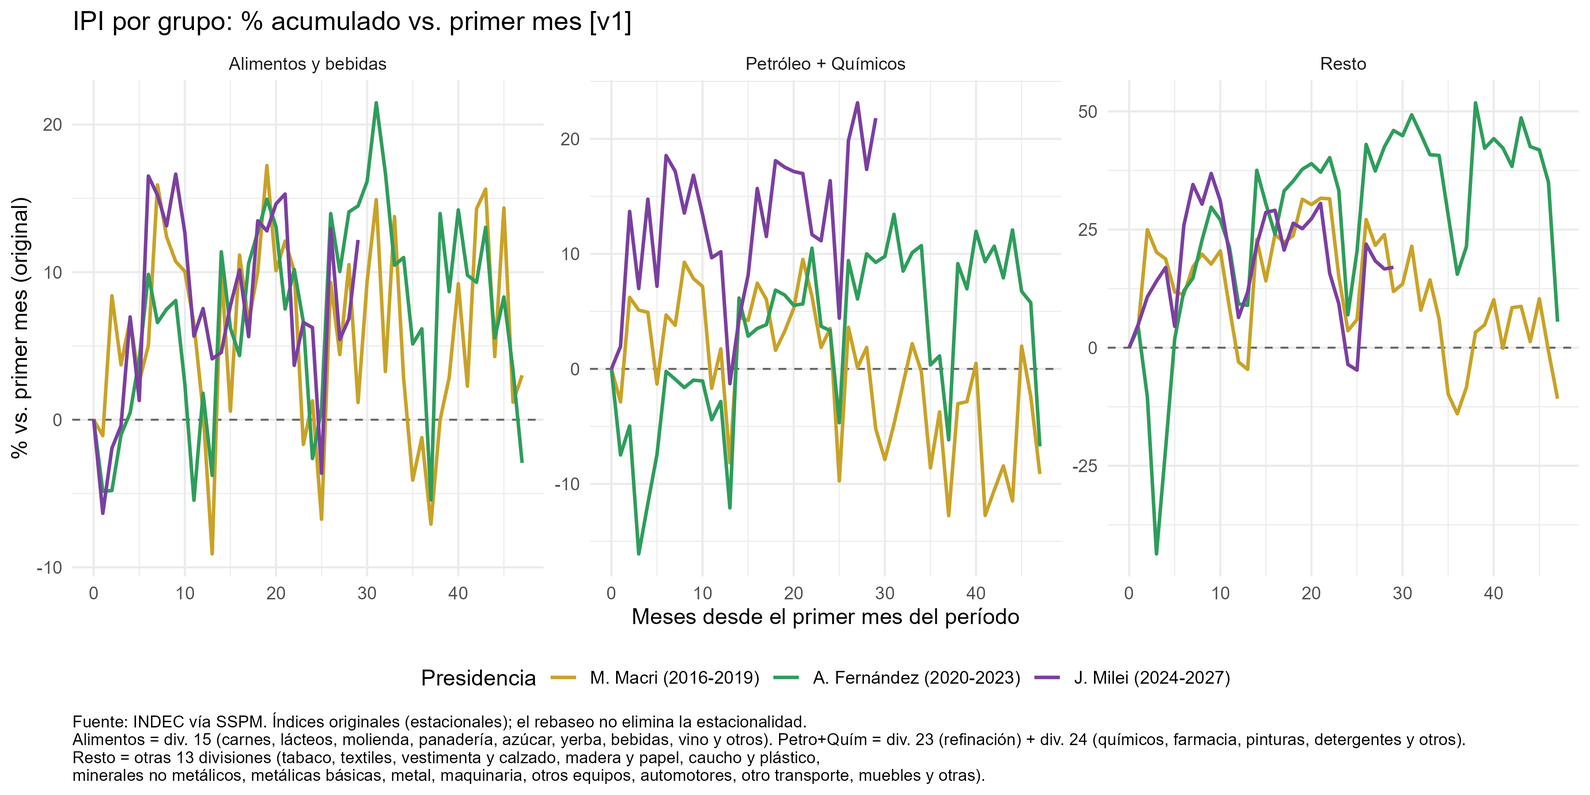
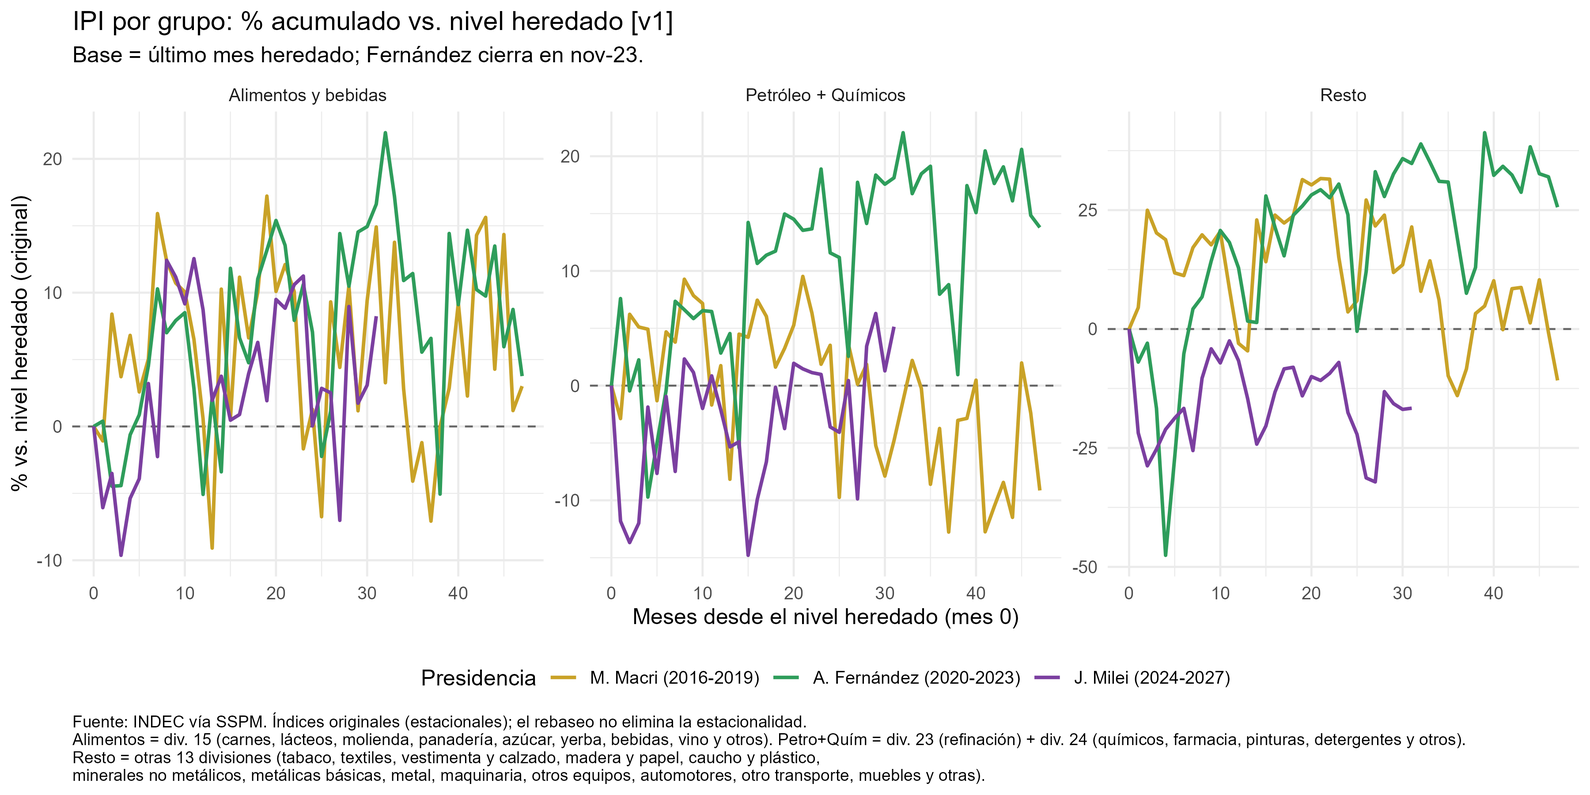
actualizo

diff --git a/tabla_promedio_grupos_sa.md b/tabla_promedio_grupos_sa.md
@@ -1,0 +1,36 @@
+# IPI manufacturero — tablas
+
+### Nivel promedio por gobierno y grupo, desestacionalizado (V1)
+
+<table style="border-collapse:collapse;font-family:Georgia,'Times New Roman',serif;font-size:14px;margin:1em 0;border:1px solid #c9c2b2;">
+<thead><tr style="background-color:#2f3e55;color:#ffffff;"><th style="padding:8px 12px;text-align:left;">Gobierno</th><th style="padding:8px 12px;text-align:left;">Grupo</th><th style="padding:8px 12px;text-align:left;">Meses</th><th style="padding:8px 12px;text-align:left;">Período</th><th style="padding:8px 12px;text-align:left;">Promedio</th></tr></thead>
+<tbody>
+<tr style="background-color:#ffffff;"><td style="padding:7px 12px;text-align:left;">M. Macri</td><td style="padding:7px 12px;text-align:left;">Alimentos y bebidas</td><td style="padding:7px 12px;text-align:left;">48</td><td style="padding:7px 12px;text-align:left;">ene-16 a dic-19</td><td style="padding:7px 12px;text-align:right;">138,3</td></tr>
+<tr style="background-color:#f5f1e8;"><td style="padding:7px 12px;text-align:left;">A. Fernández</td><td style="padding:7px 12px;text-align:left;">Alimentos y bebidas</td><td style="padding:7px 12px;text-align:left;">48</td><td style="padding:7px 12px;text-align:left;">ene-20 a dic-23</td><td style="padding:7px 12px;text-align:right;">144,6</td></tr>
+<tr style="background-color:#ffffff;"><td style="padding:7px 12px;text-align:left;">J. Milei</td><td style="padding:7px 12px;text-align:left;">Alimentos y bebidas</td><td style="padding:7px 12px;text-align:left;">30</td><td style="padding:7px 12px;text-align:left;">ene-24 a jun-26</td><td style="padding:7px 12px;text-align:right;">145,6</td></tr>
+<tr style="background-color:#f5f1e8;"><td style="padding:7px 12px;text-align:left;">M. Macri</td><td style="padding:7px 12px;text-align:left;">Petróleo + Químicos</td><td style="padding:7px 12px;text-align:left;">48</td><td style="padding:7px 12px;text-align:left;">ene-16 a dic-19</td><td style="padding:7px 12px;text-align:right;">131,5</td></tr>
+<tr style="background-color:#ffffff;"><td style="padding:7px 12px;text-align:left;">A. Fernández</td><td style="padding:7px 12px;text-align:left;">Petróleo + Químicos</td><td style="padding:7px 12px;text-align:left;">48</td><td style="padding:7px 12px;text-align:left;">ene-20 a dic-23</td><td style="padding:7px 12px;text-align:right;">132,7</td></tr>
+<tr style="background-color:#f5f1e8;"><td style="padding:7px 12px;text-align:left;">J. Milei</td><td style="padding:7px 12px;text-align:left;">Petróleo + Químicos</td><td style="padding:7px 12px;text-align:left;">30</td><td style="padding:7px 12px;text-align:left;">ene-24 a jun-26</td><td style="padding:7px 12px;text-align:right;">133,0</td></tr>
+<tr style="background-color:#ffffff;"><td style="padding:7px 12px;text-align:left;">M. Macri</td><td style="padding:7px 12px;text-align:left;">Resto</td><td style="padding:7px 12px;text-align:left;">48</td><td style="padding:7px 12px;text-align:left;">ene-16 a dic-19</td><td style="padding:7px 12px;text-align:right;">119,9</td></tr>
+<tr style="background-color:#f5f1e8;"><td style="padding:7px 12px;text-align:left;">A. Fernández</td><td style="padding:7px 12px;text-align:left;">Resto</td><td style="padding:7px 12px;text-align:left;">48</td><td style="padding:7px 12px;text-align:left;">ene-20 a dic-23</td><td style="padding:7px 12px;text-align:right;">113,0</td></tr>
+<tr style="background-color:#ffffff;"><td style="padding:7px 12px;text-align:left;">J. Milei</td><td style="padding:7px 12px;text-align:left;">Resto</td><td style="padding:7px 12px;text-align:left;">30</td><td style="padding:7px 12px;text-align:left;">ene-24 a jun-26</td><td style="padding:7px 12px;text-align:right;">101,9</td></tr>
+</tbody>
+</table>
+*Fuente: INDEC 453.1+453.2 vía SSPM. Desest. indirecto X-13 por división (spec INDEC 2025). Base 2004=100.*
+### Nivel promedio por gobierno y grupo, desestacionalizado (V2)
+
+<table style="border-collapse:collapse;font-family:Georgia,'Times New Roman',serif;font-size:14px;margin:1em 0;border:1px solid #c9c2b2;">
+<thead><tr style="background-color:#2f3e55;color:#ffffff;"><th style="padding:8px 12px;text-align:left;">Gobierno</th><th style="padding:8px 12px;text-align:left;">Grupo</th><th style="padding:8px 12px;text-align:left;">Meses</th><th style="padding:8px 12px;text-align:left;">Período</th><th style="padding:8px 12px;text-align:left;">Promedio</th></tr></thead>
+<tbody>
+<tr style="background-color:#ffffff;"><td style="padding:7px 12px;text-align:left;">M. Macri</td><td style="padding:7px 12px;text-align:left;">Alimentos y bebidas</td><td style="padding:7px 12px;text-align:left;">47</td><td style="padding:7px 12px;text-align:left;">ene-16 a nov-19</td><td style="padding:7px 12px;text-align:right;">138,3</td></tr>
+<tr style="background-color:#f5f1e8;"><td style="padding:7px 12px;text-align:left;">A. Fernández</td><td style="padding:7px 12px;text-align:left;">Alimentos y bebidas</td><td style="padding:7px 12px;text-align:left;">48</td><td style="padding:7px 12px;text-align:left;">dic-19 a nov-23</td><td style="padding:7px 12px;text-align:right;">144,6</td></tr>
+<tr style="background-color:#ffffff;"><td style="padding:7px 12px;text-align:left;">J. Milei</td><td style="padding:7px 12px;text-align:left;">Alimentos y bebidas</td><td style="padding:7px 12px;text-align:left;">31</td><td style="padding:7px 12px;text-align:left;">dic-23 a jun-26</td><td style="padding:7px 12px;text-align:right;">145,4</td></tr>
+<tr style="background-color:#f5f1e8;"><td style="padding:7px 12px;text-align:left;">M. Macri</td><td style="padding:7px 12px;text-align:left;">Petróleo + Químicos</td><td style="padding:7px 12px;text-align:left;">47</td><td style="padding:7px 12px;text-align:left;">ene-16 a nov-19</td><td style="padding:7px 12px;text-align:right;">131,7</td></tr>
+<tr style="background-color:#ffffff;"><td style="padding:7px 12px;text-align:left;">A. Fernández</td><td style="padding:7px 12px;text-align:left;">Petróleo + Químicos</td><td style="padding:7px 12px;text-align:left;">48</td><td style="padding:7px 12px;text-align:left;">dic-19 a nov-23</td><td style="padding:7px 12px;text-align:right;">132,7</td></tr>
+<tr style="background-color:#f5f1e8;"><td style="padding:7px 12px;text-align:left;">J. Milei</td><td style="padding:7px 12px;text-align:left;">Petróleo + Químicos</td><td style="padding:7px 12px;text-align:left;">31</td><td style="padding:7px 12px;text-align:left;">dic-23 a jun-26</td><td style="padding:7px 12px;text-align:right;">132,8</td></tr>
+<tr style="background-color:#ffffff;"><td style="padding:7px 12px;text-align:left;">M. Macri</td><td style="padding:7px 12px;text-align:left;">Resto</td><td style="padding:7px 12px;text-align:left;">47</td><td style="padding:7px 12px;text-align:left;">ene-16 a nov-19</td><td style="padding:7px 12px;text-align:right;">120,3</td></tr>
+<tr style="background-color:#f5f1e8;"><td style="padding:7px 12px;text-align:left;">A. Fernández</td><td style="padding:7px 12px;text-align:left;">Resto</td><td style="padding:7px 12px;text-align:left;">48</td><td style="padding:7px 12px;text-align:left;">dic-19 a nov-23</td><td style="padding:7px 12px;text-align:right;">113,0</td></tr>
+<tr style="background-color:#ffffff;"><td style="padding:7px 12px;text-align:left;">J. Milei</td><td style="padding:7px 12px;text-align:left;">Resto</td><td style="padding:7px 12px;text-align:left;">31</td><td style="padding:7px 12px;text-align:left;">dic-23 a jun-26</td><td style="padding:7px 12px;text-align:right;">101,9</td></tr>
+</tbody>
+</table>
+*Fuente: INDEC 453.1+453.2 vía SSPM. Desest. indirecto X-13 por división (spec INDEC 2025). Base 2004=100.*

diff --git a/tabla_promedio_grupos.md b/tabla_promedio_grupos.md
@@ -1,0 +1,36 @@
+# IPI manufacturero — tablas
+
+### Nivel promedio por gobierno y grupo, serie original (V1)
+
+<table style="border-collapse:collapse;font-family:Georgia,'Times New Roman',serif;font-size:14px;margin:1em 0;border:1px solid #c9c2b2;">
+<thead><tr style="background-color:#2f3e55;color:#ffffff;"><th style="padding:8px 12px;text-align:left;">Gobierno</th><th style="padding:8px 12px;text-align:left;">Grupo</th><th style="padding:8px 12px;text-align:left;">Meses</th><th style="padding:8px 12px;text-align:left;">Período</th><th style="padding:8px 12px;text-align:left;">Promedio</th></tr></thead>
+<tbody>
+<tr style="background-color:#ffffff;"><td style="padding:7px 12px;text-align:left;">M. Macri</td><td style="padding:7px 12px;text-align:left;">Alimentos y bebidas</td><td style="padding:7px 12px;text-align:left;">48</td><td style="padding:7px 12px;text-align:left;">ene-16 a dic-19</td><td style="padding:7px 12px;text-align:right;">138,2</td></tr>
+<tr style="background-color:#f5f1e8;"><td style="padding:7px 12px;text-align:left;">A. Fernández</td><td style="padding:7px 12px;text-align:left;">Alimentos y bebidas</td><td style="padding:7px 12px;text-align:left;">48</td><td style="padding:7px 12px;text-align:left;">ene-20 a dic-23</td><td style="padding:7px 12px;text-align:right;">144,6</td></tr>
+<tr style="background-color:#ffffff;"><td style="padding:7px 12px;text-align:left;">J. Milei</td><td style="padding:7px 12px;text-align:left;">Alimentos y bebidas</td><td style="padding:7px 12px;text-align:left;">30</td><td style="padding:7px 12px;text-align:left;">ene-24 a jun-26</td><td style="padding:7px 12px;text-align:right;">144,9</td></tr>
+<tr style="background-color:#f5f1e8;"><td style="padding:7px 12px;text-align:left;">M. Macri</td><td style="padding:7px 12px;text-align:left;">Petróleo + Químicos</td><td style="padding:7px 12px;text-align:left;">48</td><td style="padding:7px 12px;text-align:left;">ene-16 a dic-19</td><td style="padding:7px 12px;text-align:right;">131,6</td></tr>
+<tr style="background-color:#ffffff;"><td style="padding:7px 12px;text-align:left;">A. Fernández</td><td style="padding:7px 12px;text-align:left;">Petróleo + Químicos</td><td style="padding:7px 12px;text-align:left;">48</td><td style="padding:7px 12px;text-align:left;">ene-20 a dic-23</td><td style="padding:7px 12px;text-align:right;">132,7</td></tr>
+<tr style="background-color:#f5f1e8;"><td style="padding:7px 12px;text-align:left;">J. Milei</td><td style="padding:7px 12px;text-align:left;">Petróleo + Químicos</td><td style="padding:7px 12px;text-align:left;">30</td><td style="padding:7px 12px;text-align:left;">ene-24 a jun-26</td><td style="padding:7px 12px;text-align:right;">132,6</td></tr>
+<tr style="background-color:#ffffff;"><td style="padding:7px 12px;text-align:left;">M. Macri</td><td style="padding:7px 12px;text-align:left;">Resto</td><td style="padding:7px 12px;text-align:left;">48</td><td style="padding:7px 12px;text-align:left;">ene-16 a dic-19</td><td style="padding:7px 12px;text-align:right;">119,9</td></tr>
+<tr style="background-color:#f5f1e8;"><td style="padding:7px 12px;text-align:left;">A. Fernández</td><td style="padding:7px 12px;text-align:left;">Resto</td><td style="padding:7px 12px;text-align:left;">48</td><td style="padding:7px 12px;text-align:left;">ene-20 a dic-23</td><td style="padding:7px 12px;text-align:right;">112,9</td></tr>
+<tr style="background-color:#ffffff;"><td style="padding:7px 12px;text-align:left;">J. Milei</td><td style="padding:7px 12px;text-align:left;">Resto</td><td style="padding:7px 12px;text-align:left;">30</td><td style="padding:7px 12px;text-align:left;">ene-24 a jun-26</td><td style="padding:7px 12px;text-align:right;">101,1</td></tr>
+</tbody>
+</table>
+*Fuente: INDEC 453.1+453.2 vía SSPM. Serie original, base 2004=100.*
+### Nivel promedio por gobierno y grupo, serie original (V2)
+
+<table style="border-collapse:collapse;font-family:Georgia,'Times New Roman',serif;font-size:14px;margin:1em 0;border:1px solid #c9c2b2;">
+<thead><tr style="background-color:#2f3e55;color:#ffffff;"><th style="padding:8px 12px;text-align:left;">Gobierno</th><th style="padding:8px 12px;text-align:left;">Grupo</th><th style="padding:8px 12px;text-align:left;">Meses</th><th style="padding:8px 12px;text-align:left;">Período</th><th style="padding:8px 12px;text-align:left;">Promedio</th></tr></thead>
+<tbody>
+<tr style="background-color:#ffffff;"><td style="padding:7px 12px;text-align:left;">M. Macri</td><td style="padding:7px 12px;text-align:left;">Alimentos y bebidas</td><td style="padding:7px 12px;text-align:left;">47</td><td style="padding:7px 12px;text-align:left;">ene-16 a nov-19</td><td style="padding:7px 12px;text-align:right;">138,3</td></tr>
+<tr style="background-color:#f5f1e8;"><td style="padding:7px 12px;text-align:left;">A. Fernández</td><td style="padding:7px 12px;text-align:left;">Alimentos y bebidas</td><td style="padding:7px 12px;text-align:left;">48</td><td style="padding:7px 12px;text-align:left;">dic-19 a nov-23</td><td style="padding:7px 12px;text-align:right;">144,6</td></tr>
+<tr style="background-color:#ffffff;"><td style="padding:7px 12px;text-align:left;">J. Milei</td><td style="padding:7px 12px;text-align:left;">Alimentos y bebidas</td><td style="padding:7px 12px;text-align:left;">31</td><td style="padding:7px 12px;text-align:left;">dic-23 a jun-26</td><td style="padding:7px 12px;text-align:right;">144,5</td></tr>
+<tr style="background-color:#f5f1e8;"><td style="padding:7px 12px;text-align:left;">M. Macri</td><td style="padding:7px 12px;text-align:left;">Petróleo + Químicos</td><td style="padding:7px 12px;text-align:left;">47</td><td style="padding:7px 12px;text-align:left;">ene-16 a nov-19</td><td style="padding:7px 12px;text-align:right;">131,8</td></tr>
+<tr style="background-color:#ffffff;"><td style="padding:7px 12px;text-align:left;">A. Fernández</td><td style="padding:7px 12px;text-align:left;">Petróleo + Químicos</td><td style="padding:7px 12px;text-align:left;">48</td><td style="padding:7px 12px;text-align:left;">dic-19 a nov-23</td><td style="padding:7px 12px;text-align:right;">132,7</td></tr>
+<tr style="background-color:#f5f1e8;"><td style="padding:7px 12px;text-align:left;">J. Milei</td><td style="padding:7px 12px;text-align:left;">Petróleo + Químicos</td><td style="padding:7px 12px;text-align:left;">31</td><td style="padding:7px 12px;text-align:left;">dic-23 a jun-26</td><td style="padding:7px 12px;text-align:right;">132,2</td></tr>
+<tr style="background-color:#ffffff;"><td style="padding:7px 12px;text-align:left;">M. Macri</td><td style="padding:7px 12px;text-align:left;">Resto</td><td style="padding:7px 12px;text-align:left;">47</td><td style="padding:7px 12px;text-align:left;">ene-16 a nov-19</td><td style="padding:7px 12px;text-align:right;">120,4</td></tr>
+<tr style="background-color:#f5f1e8;"><td style="padding:7px 12px;text-align:left;">A. Fernández</td><td style="padding:7px 12px;text-align:left;">Resto</td><td style="padding:7px 12px;text-align:left;">48</td><td style="padding:7px 12px;text-align:left;">dic-19 a nov-23</td><td style="padding:7px 12px;text-align:right;">113,0</td></tr>
+<tr style="background-color:#ffffff;"><td style="padding:7px 12px;text-align:left;">J. Milei</td><td style="padding:7px 12px;text-align:left;">Resto</td><td style="padding:7px 12px;text-align:left;">31</td><td style="padding:7px 12px;text-align:left;">dic-23 a jun-26</td><td style="padding:7px 12px;text-align:right;">100,9</td></tr>
+</tbody>
+</table>
+*Fuente: INDEC 453.1+453.2 vía SSPM. Serie original, base 2004=100.*

diff --git a/tabla_punta_a_punta.md b/tabla_punta_a_punta.md
@@ -1,0 +1,36 @@
+# IPI manufacturero — tablas
+
+### Diferencia punta a punta por gobierno y grupo (V1, % vs. nivel heredado)
+
+<table style="border-collapse:collapse;font-family:Georgia,'Times New Roman',serif;font-size:14px;margin:1em 0;border:1px solid #c9c2b2;">
+<thead><tr style="background-color:#2f3e55;color:#ffffff;"><th style="padding:8px 12px;text-align:left;">Gobierno</th><th style="padding:8px 12px;text-align:left;">Grupo</th><th style="padding:8px 12px;text-align:left;">Rango</th><th style="padding:8px 12px;text-align:left;">Variación</th></tr></thead>
+<tbody>
+<tr style="background-color:#ffffff;"><td style="padding:7px 12px;text-align:left;">M. Macri</td><td style="padding:7px 12px;text-align:left;">Alimentos y bebidas</td><td style="padding:7px 12px;text-align:left;">ene-16 → dic-19</td><td style="padding:7px 12px;text-align:right;"> -1,8</td></tr>
+<tr style="background-color:#f5f1e8;"><td style="padding:7px 12px;text-align:left;">M. Macri</td><td style="padding:7px 12px;text-align:left;">Petróleo + Químicos</td><td style="padding:7px 12px;text-align:left;">ene-16 → dic-19</td><td style="padding:7px 12px;text-align:right;"> -5,5</td></tr>
+<tr style="background-color:#ffffff;"><td style="padding:7px 12px;text-align:left;">M. Macri</td><td style="padding:7px 12px;text-align:left;">Resto</td><td style="padding:7px 12px;text-align:left;">ene-16 → dic-19</td><td style="padding:7px 12px;text-align:right;">-20,3</td></tr>
+<tr style="background-color:#f5f1e8;"><td style="padding:7px 12px;text-align:left;">A. Fernández</td><td style="padding:7px 12px;text-align:left;">Alimentos y bebidas</td><td style="padding:7px 12px;text-align:left;">dic-19 → nov-23</td><td style="padding:7px 12px;text-align:right;"> -1,2</td></tr>
+<tr style="background-color:#ffffff;"><td style="padding:7px 12px;text-align:left;">A. Fernández</td><td style="padding:7px 12px;text-align:left;">Petróleo + Químicos</td><td style="padding:7px 12px;text-align:left;">dic-19 → nov-23</td><td style="padding:7px 12px;text-align:right;">  5,9</td></tr>
+<tr style="background-color:#f5f1e8;"><td style="padding:7px 12px;text-align:left;">A. Fernández</td><td style="padding:7px 12px;text-align:left;">Resto</td><td style="padding:7px 12px;text-align:left;">dic-19 → nov-23</td><td style="padding:7px 12px;text-align:right;"> 10,3</td></tr>
+<tr style="background-color:#ffffff;"><td style="padding:7px 12px;text-align:left;">J. Milei</td><td style="padding:7px 12px;text-align:left;">Alimentos y bebidas</td><td style="padding:7px 12px;text-align:left;">nov-23 → jun-26</td><td style="padding:7px 12px;text-align:right;">  7,4</td></tr>
+<tr style="background-color:#f5f1e8;"><td style="padding:7px 12px;text-align:left;">J. Milei</td><td style="padding:7px 12px;text-align:left;">Petróleo + Químicos</td><td style="padding:7px 12px;text-align:left;">nov-23 → jun-26</td><td style="padding:7px 12px;text-align:right;">  6,6</td></tr>
+<tr style="background-color:#ffffff;"><td style="padding:7px 12px;text-align:left;">J. Milei</td><td style="padding:7px 12px;text-align:left;">Resto</td><td style="padding:7px 12px;text-align:left;">nov-23 → jun-26</td><td style="padding:7px 12px;text-align:right;">-13,3</td></tr>
+</tbody>
+</table>
+*Fuente: INDEC vía SSPM, desest. INDEC. Variación punta a punta vs. último mes de la presidencia anterior (nivel heredado).*
+### Diferencia punta a punta por gobierno y grupo (V2, % vs. nivel heredado)
+
+<table style="border-collapse:collapse;font-family:Georgia,'Times New Roman',serif;font-size:14px;margin:1em 0;border:1px solid #c9c2b2;">
+<thead><tr style="background-color:#2f3e55;color:#ffffff;"><th style="padding:8px 12px;text-align:left;">Gobierno</th><th style="padding:8px 12px;text-align:left;">Grupo</th><th style="padding:8px 12px;text-align:left;">Rango</th><th style="padding:8px 12px;text-align:left;">Variación</th></tr></thead>
+<tbody>
+<tr style="background-color:#ffffff;"><td style="padding:7px 12px;text-align:left;">M. Macri</td><td style="padding:7px 12px;text-align:left;">Alimentos y bebidas</td><td style="padding:7px 12px;text-align:left;">ene-16 → nov-19</td><td style="padding:7px 12px;text-align:right;"> -5,7</td></tr>
+<tr style="background-color:#f5f1e8;"><td style="padding:7px 12px;text-align:left;">M. Macri</td><td style="padding:7px 12px;text-align:left;">Petróleo + Químicos</td><td style="padding:7px 12px;text-align:left;">ene-16 → nov-19</td><td style="padding:7px 12px;text-align:right;"> -7,0</td></tr>
+<tr style="background-color:#ffffff;"><td style="padding:7px 12px;text-align:left;">M. Macri</td><td style="padding:7px 12px;text-align:left;">Resto</td><td style="padding:7px 12px;text-align:left;">ene-16 → nov-19</td><td style="padding:7px 12px;text-align:right;">-20,2</td></tr>
+<tr style="background-color:#f5f1e8;"><td style="padding:7px 12px;text-align:left;">A. Fernández</td><td style="padding:7px 12px;text-align:left;">Alimentos y bebidas</td><td style="padding:7px 12px;text-align:left;">nov-19 → nov-23</td><td style="padding:7px 12px;text-align:right;">  3,0</td></tr>
+<tr style="background-color:#ffffff;"><td style="padding:7px 12px;text-align:left;">A. Fernández</td><td style="padding:7px 12px;text-align:left;">Petróleo + Químicos</td><td style="padding:7px 12px;text-align:left;">nov-19 → nov-23</td><td style="padding:7px 12px;text-align:right;">  7,6</td></tr>
+<tr style="background-color:#f5f1e8;"><td style="padding:7px 12px;text-align:left;">A. Fernández</td><td style="padding:7px 12px;text-align:left;">Resto</td><td style="padding:7px 12px;text-align:left;">nov-19 → nov-23</td><td style="padding:7px 12px;text-align:right;"> 10,1</td></tr>
+<tr style="background-color:#ffffff;"><td style="padding:7px 12px;text-align:left;">J. Milei</td><td style="padding:7px 12px;text-align:left;">Alimentos y bebidas</td><td style="padding:7px 12px;text-align:left;">nov-23 → jun-26</td><td style="padding:7px 12px;text-align:right;">  7,4</td></tr>
+<tr style="background-color:#f5f1e8;"><td style="padding:7px 12px;text-align:left;">J. Milei</td><td style="padding:7px 12px;text-align:left;">Petróleo + Químicos</td><td style="padding:7px 12px;text-align:left;">nov-23 → jun-26</td><td style="padding:7px 12px;text-align:right;">  6,6</td></tr>
+<tr style="background-color:#ffffff;"><td style="padding:7px 12px;text-align:left;">J. Milei</td><td style="padding:7px 12px;text-align:left;">Resto</td><td style="padding:7px 12px;text-align:left;">nov-23 → jun-26</td><td style="padding:7px 12px;text-align:right;">-13,3</td></tr>
+</tbody>
+</table>
+*Fuente: INDEC vía SSPM, desest. INDEC. Variación punta a punta vs. último mes de la presidencia anterior (nivel heredado).*

diff --git a/tabla_promedio_nivel_general.md b/tabla_promedio_nivel_general.md
@@ -1,0 +1,24 @@
+# IPI manufacturero — tablas
+
+### Nivel promedio del IPI por presidencia (V1, años calendario)
+
+<table style="border-collapse:collapse;font-family:Georgia,'Times New Roman',serif;font-size:14px;margin:1em 0;border:1px solid #c9c2b2;">
+<thead><tr style="background-color:#2f3e55;color:#ffffff;"><th style="padding:8px 12px;text-align:left;">Gobierno</th><th style="padding:8px 12px;text-align:left;">Meses</th><th style="padding:8px 12px;text-align:left;">Período</th><th style="padding:8px 12px;text-align:left;">Prom. desest.</th><th style="padding:8px 12px;text-align:left;">Prom. original</th><th style="padding:8px 12px;text-align:left;">Tendencia-ciclo</th></tr></thead>
+<tbody>
+<tr style="background-color:#ffffff;"><td style="padding:7px 12px;text-align:left;">M. Macri (2016-2019)</td><td style="padding:7px 12px;text-align:left;">48</td><td style="padding:7px 12px;text-align:left;">ene-16 a dic-19</td><td style="padding:7px 12px;text-align:right;">126,4</td><td style="padding:7px 12px;text-align:right;">126,4</td><td style="padding:7px 12px;text-align:right;">126,6</td></tr>
+<tr style="background-color:#f5f1e8;"><td style="padding:7px 12px;text-align:left;">A. Fernández (2020-2023)</td><td style="padding:7px 12px;text-align:left;">48</td><td style="padding:7px 12px;text-align:left;">ene-20 a dic-23</td><td style="padding:7px 12px;text-align:right;">124,1</td><td style="padding:7px 12px;text-align:right;">124,0</td><td style="padding:7px 12px;text-align:right;">124,6</td></tr>
+<tr style="background-color:#ffffff;"><td style="padding:7px 12px;text-align:left;">J. Milei (2024-2027)</td><td style="padding:7px 12px;text-align:left;">30</td><td style="padding:7px 12px;text-align:left;">ene-24 a jun-26</td><td style="padding:7px 12px;text-align:right;">117,8</td><td style="padding:7px 12px;text-align:right;">117,1</td><td style="padding:7px 12px;text-align:right;">118,0</td></tr>
+</tbody>
+</table>
+*Fuente: INDEC (vía SSPM/datos.gob.ar). IPI base 2004=100.*
+### Nivel promedio del IPI por presidencia (V2, transición de diciembre)
+
+<table style="border-collapse:collapse;font-family:Georgia,'Times New Roman',serif;font-size:14px;margin:1em 0;border:1px solid #c9c2b2;">
+<thead><tr style="background-color:#2f3e55;color:#ffffff;"><th style="padding:8px 12px;text-align:left;">Gobierno</th><th style="padding:8px 12px;text-align:left;">Meses</th><th style="padding:8px 12px;text-align:left;">Período</th><th style="padding:8px 12px;text-align:left;">Prom. desest.</th><th style="padding:8px 12px;text-align:left;">Prom. original</th><th style="padding:8px 12px;text-align:left;">Tendencia-ciclo</th></tr></thead>
+<tbody>
+<tr style="background-color:#ffffff;"><td style="padding:7px 12px;text-align:left;">M. Macri (dic-2015 a nov-2019)</td><td style="padding:7px 12px;text-align:left;">47</td><td style="padding:7px 12px;text-align:left;">ene-16 a nov-19</td><td style="padding:7px 12px;text-align:right;">126,6</td><td style="padding:7px 12px;text-align:right;">126,7</td><td style="padding:7px 12px;text-align:right;">126,8</td></tr>
+<tr style="background-color:#f5f1e8;"><td style="padding:7px 12px;text-align:left;">A. Fernández (dic-2019 a nov-2023)</td><td style="padding:7px 12px;text-align:left;">48</td><td style="padding:7px 12px;text-align:left;">dic-19 a nov-23</td><td style="padding:7px 12px;text-align:right;">124,0</td><td style="padding:7px 12px;text-align:right;">124,0</td><td style="padding:7px 12px;text-align:right;">124,5</td></tr>
+<tr style="background-color:#ffffff;"><td style="padding:7px 12px;text-align:left;">J. Milei (desde dic-2023)</td><td style="padding:7px 12px;text-align:left;">31</td><td style="padding:7px 12px;text-align:left;">dic-23 a jun-26</td><td style="padding:7px 12px;text-align:right;">117,8</td><td style="padding:7px 12px;text-align:right;">116,8</td><td style="padding:7px 12px;text-align:right;">118,0</td></tr>
+</tbody>
+</table>
+*Fuente: INDEC (vía SSPM/datos.gob.ar). IPI base 2004=100.*
